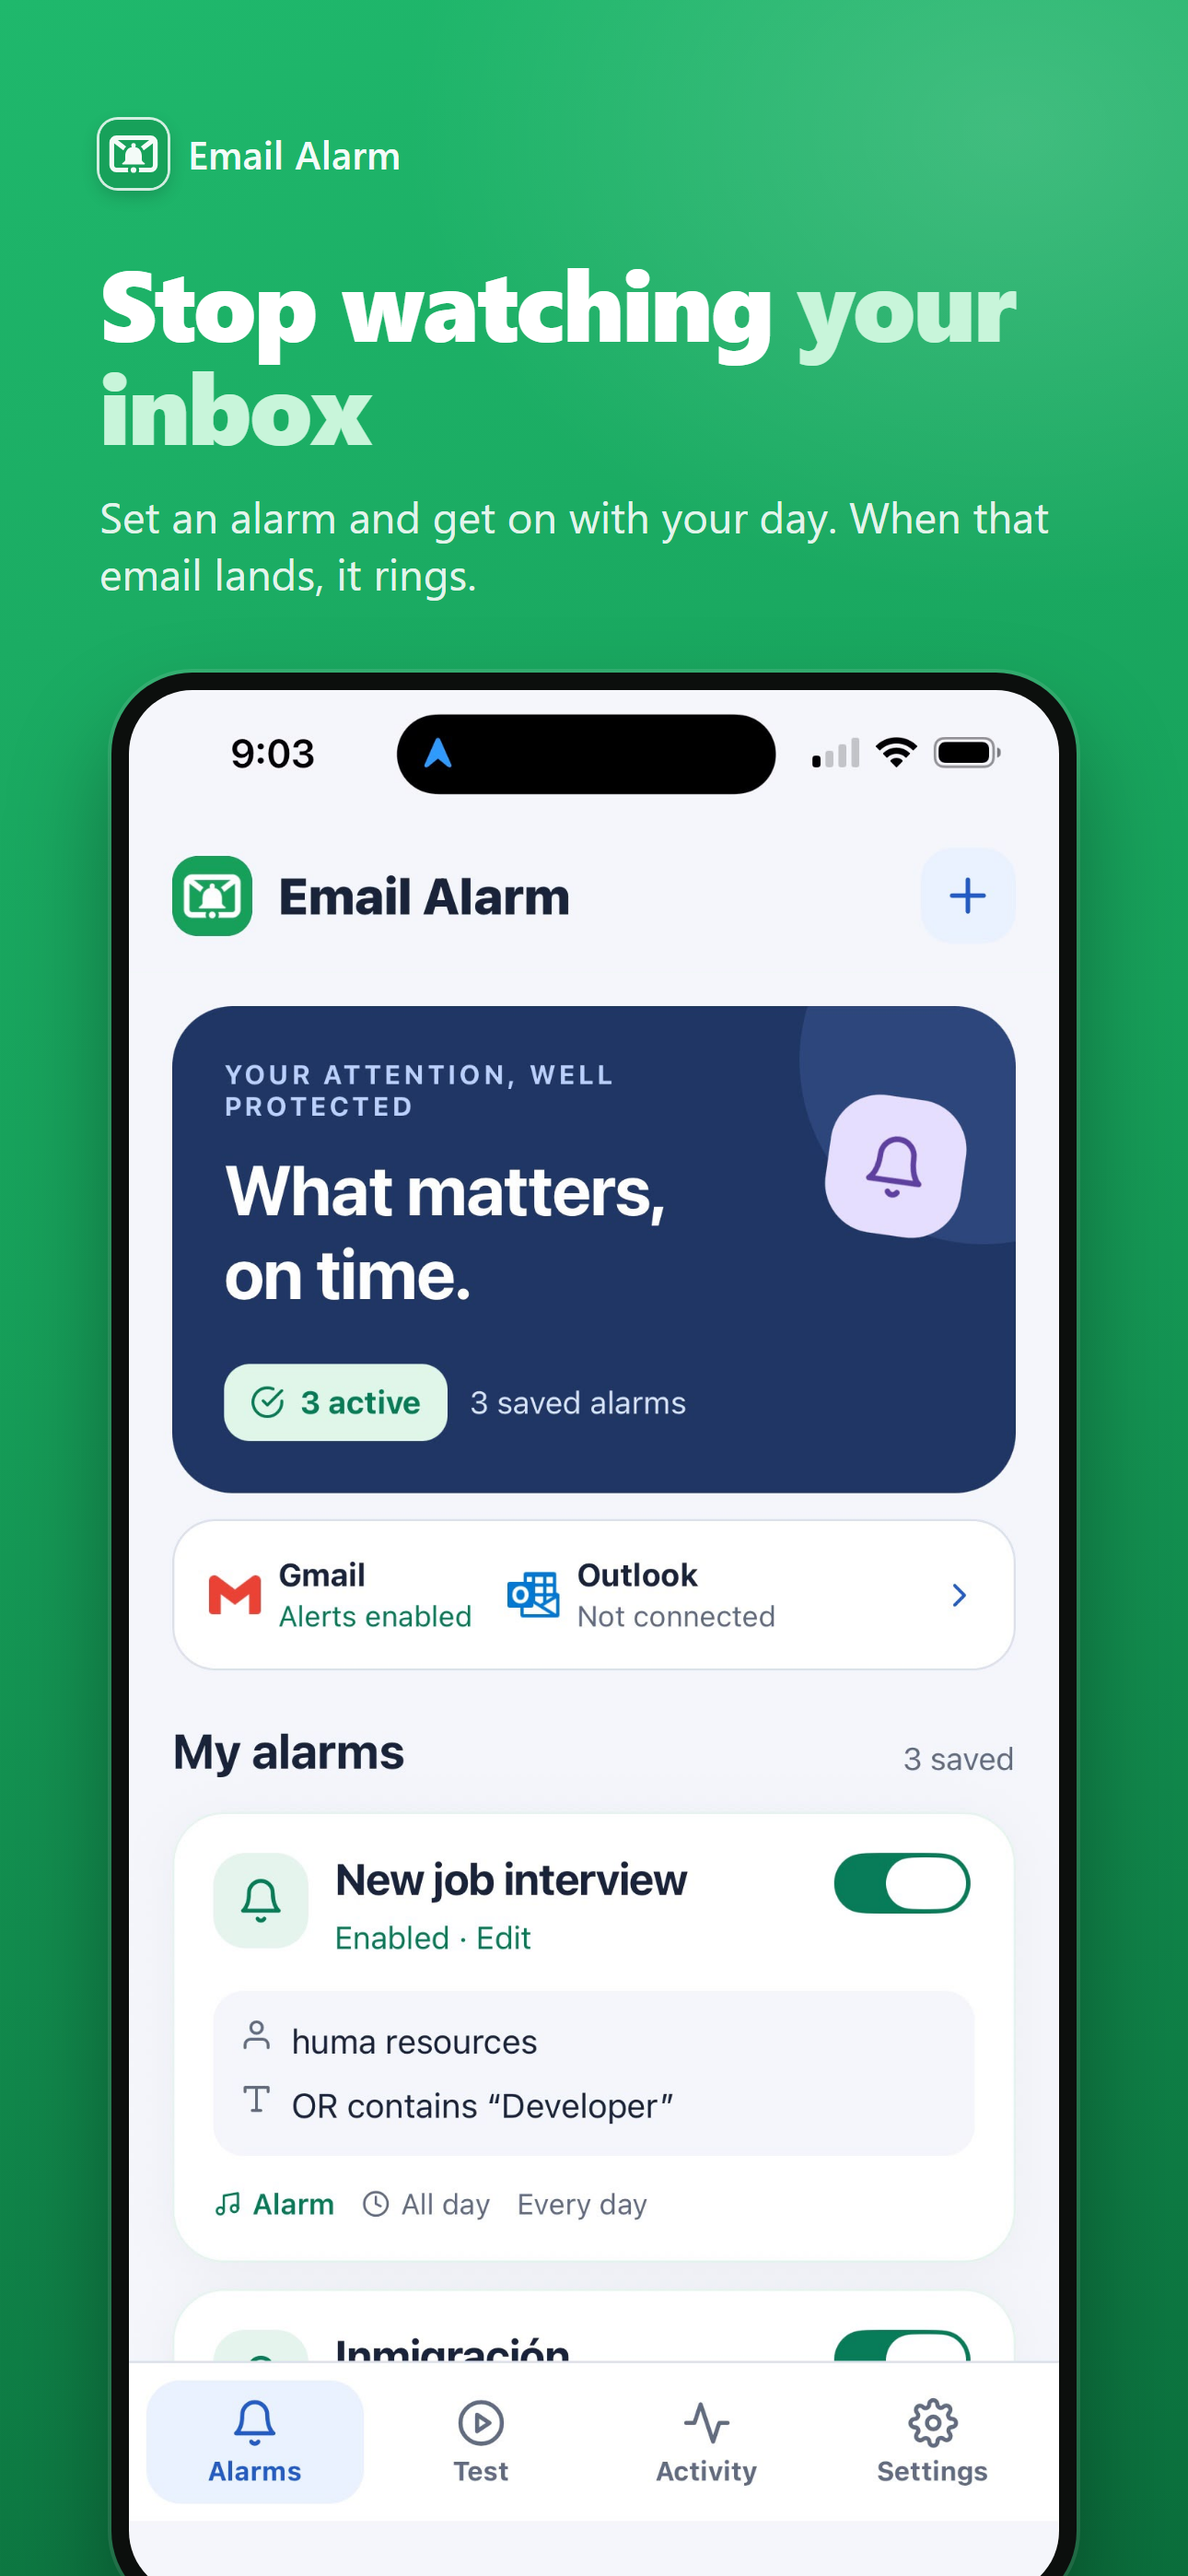
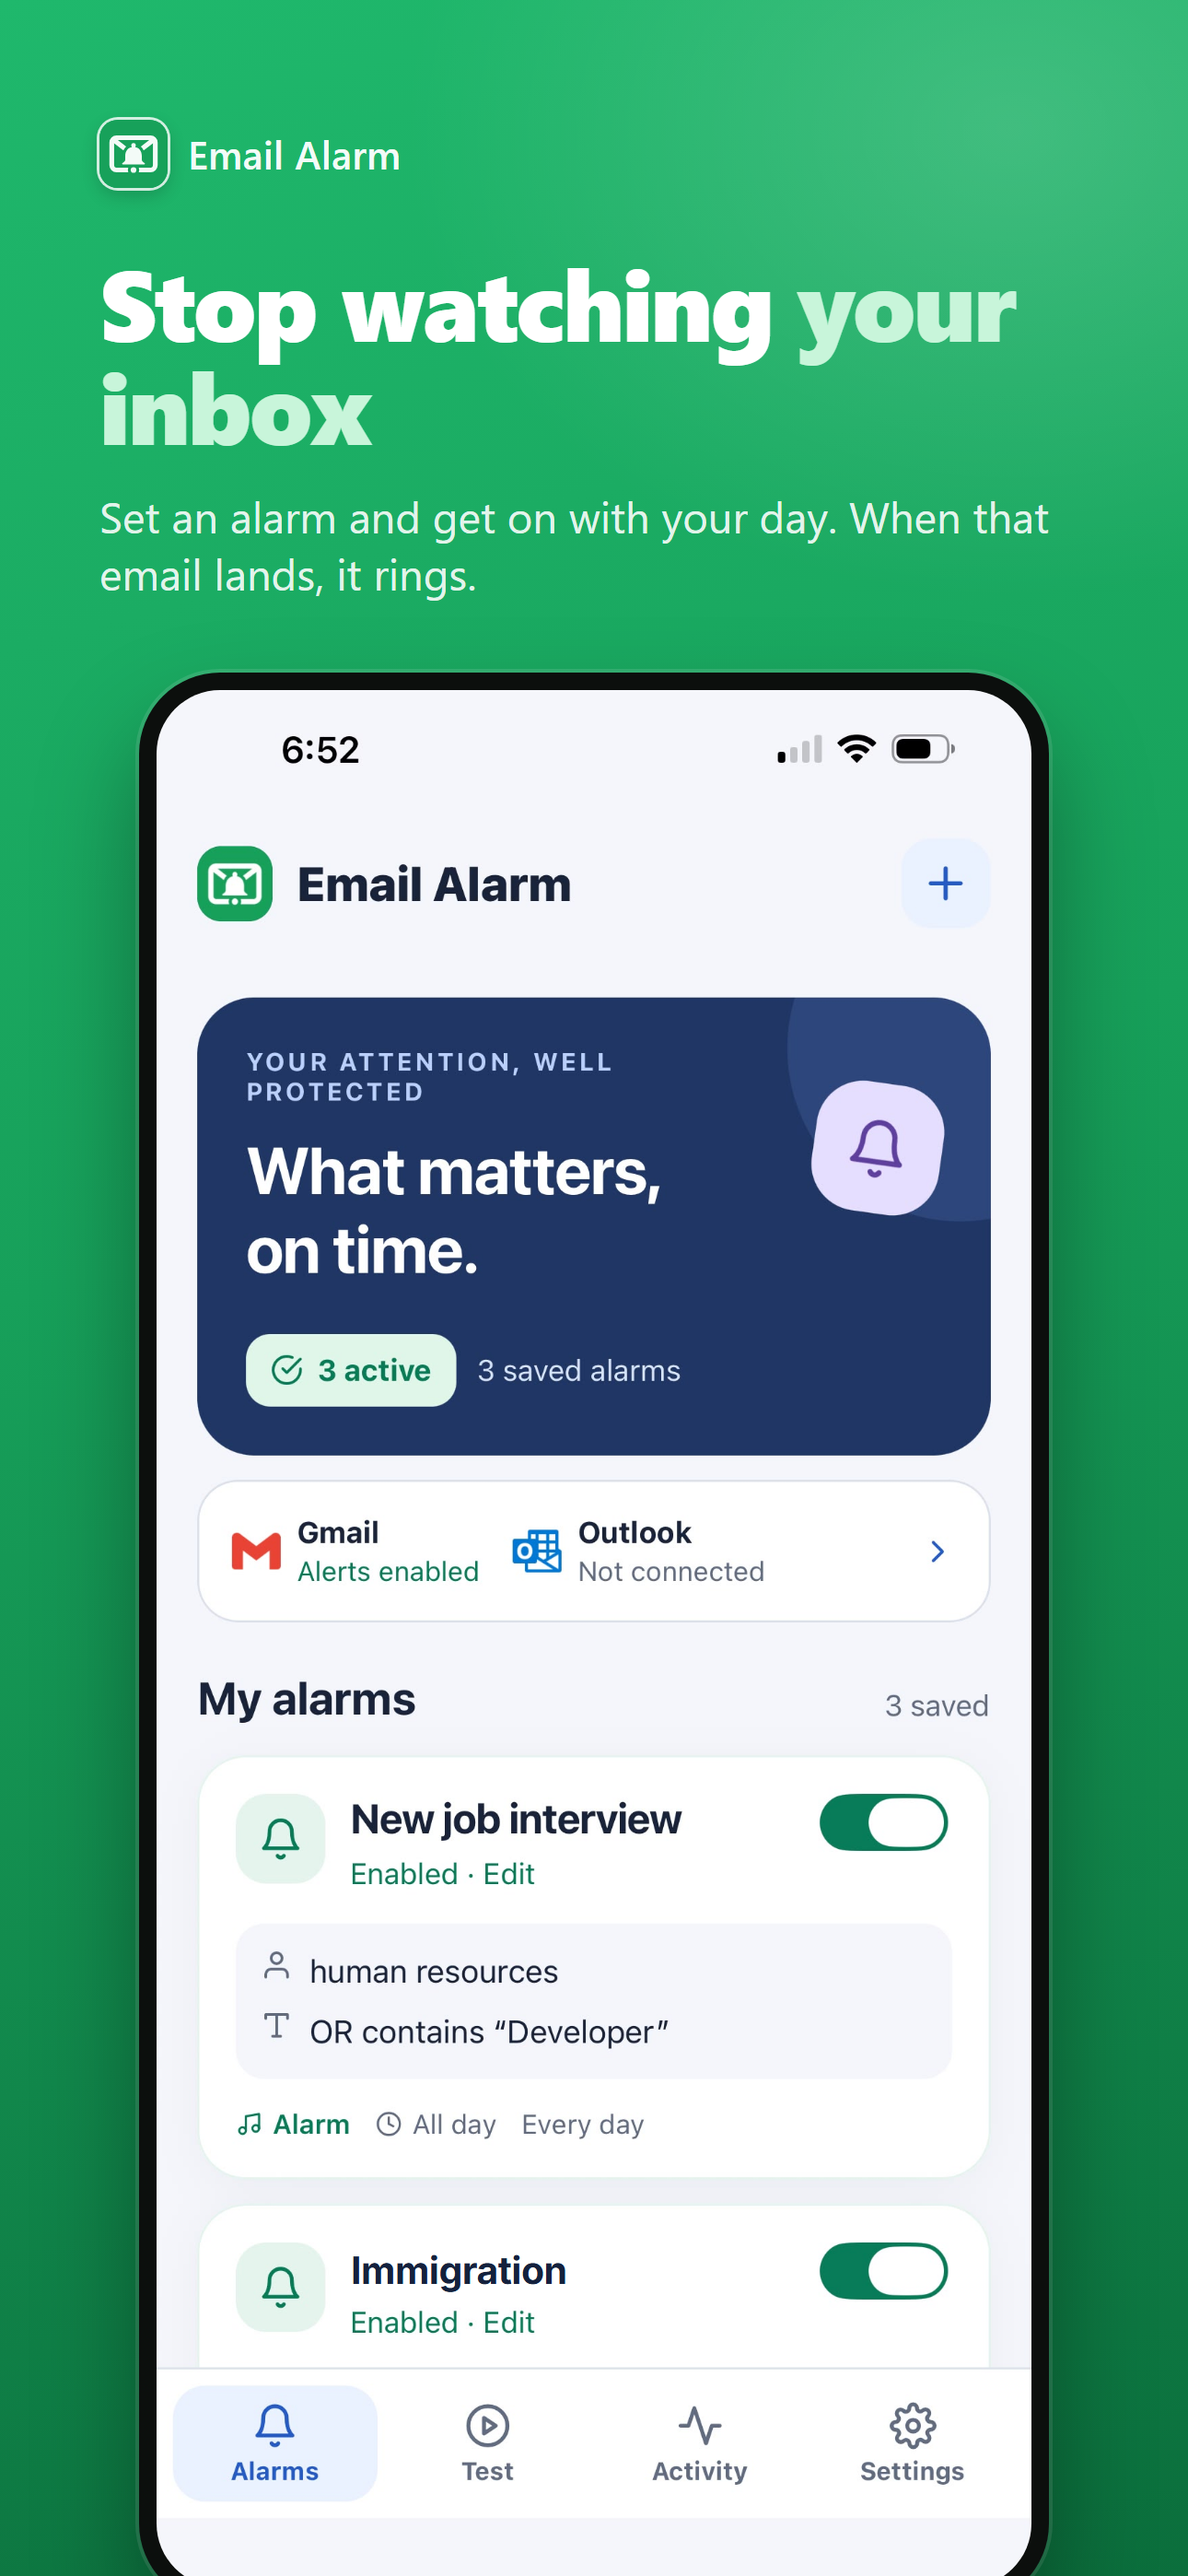
Apple: capturas con la lista corregida y datos de prueba neutros
La captura de la lista pasa a la que ya tiene "human resources" bien escrito y
no trae el aviso pasajero. Sobre las otras, un mecanismo de parches: tapa un
rectangulo con el color tomado de la propia captura y reescribe el texto, solo
para los datos de prueba. El remitente deja de ser la empresa de Luciano y pasa
a un ejemplo neutro, y la alarma "Inmigracion" se lee en ingles en la ficha en
ingles. La interfaz de la app no se toca.

El telefono baja a 950 px de ancho para que la barra de pestanas entre entera.

diff --git a/apple/marketing_ios.py b/apple/marketing_ios.py
@@ -8,11 +8,18 @@ apple/capturas-app-store/, 1290x2796 (el tamano de 6.9" que pide Apple y el
 mismo que traen las capturas originales). Renderiza con Edge headless,
 igual que play/marketing.py.
 
-Cada pieza puede saltear franjas de la captura original ("saltos"): filas en
-pixeles del JPG que no se muestran. Sirve para sacar los avisos pasajeros
-("Alarm saved on your iPhone") o un elemento cortado arriba de todo; el corte
-cae siempre sobre el fondo liso, asi que no se nota.
+Dos retoques sobre la captura original, los dos en pixeles del JPG:
+
+- "saltos": franjas de filas que no se muestran. Sirve para sacar un aviso
+  pasajero ("Alarm saved on your iPhone") o un elemento cortado arriba de todo;
+  el corte cae sobre el fondo liso, asi que no se nota.
+- "parches": tapan un rectangulo con el color del fondo (se toma de un pixel de
+  la misma captura, asi no hay que adivinarlo) y escriben otro texto encima.
+  Solo para los datos de prueba: el remitente del email que uso Luciano para
+  probar es su propia empresa, y en la ficha queda mejor un ejemplo neutro.
+  La interfaz de la app no se toca.
 """
+import json
 import pathlib
 import subprocess
 import tempfile
@@ -25,31 +32,62 @@ EDGE = r"C:\Program Files (x86)\Microsoft\Edge\Application\msedge.exe"
 ANCHO, ALTO = 1290, 2796
 ANCHO_ORIGEN = 1290  # ancho de las capturas del iPhone
 
-# (captura, titular con <em> en lo que se destaca, bajada, telefono completo?, saltos)
+REMITENTE = "Acme Restaurant"
+CORREO = "shifts@acmerestaurant.com"
+# La alarma se llama "Inmigracion" en el telefono de prueba; en la ficha en
+# ingles conviene que se lea en ingles.
+INMIGRACION = "Immigration"
+
 # El telefono completo se usa cuando lo importante esta abajo (el boton Stop alarm);
 # si no, el telefono sale mas grande y cortado por el borde inferior.
 TEXTOS = {
     "en": [
-        ("lista", "Stop watching <em>your inbox</em>",
-         "Set an alarm and get on with your day. When that email lands, it rings.",
-         False, [(392, 548)]),
-        ("alarma", "Rings like a <em>real alarm</em>",
-         "Full screen, with the sender and the subject, until you stop it.",
-         True, []),
-        ("editar", "You choose <em>what matters</em>",
-         "A sender, a keyword, or both. Type “uscis” and it also rings for “USCIS Online Account”.",
-         False, []),
-        ("horario", "Only when it <em>should</em> ring",
-         "Pick the days and the hours of each alarm. Outside them, it stays quiet.",
-         False, [(157, 414)]),
-        ("actividad", "Know <em>why</em> it rang",
-         "Every alert, with its sender and subject, saved on your iPhone.",
-         False, []),
+        dict(captura="lista",
+             titulo="Stop watching <em>your inbox</em>",
+             bajada="Set an alarm and get on with your day. When that email lands, it rings.",
+             parches=[
+                 dict(rect=(286, 2285, 420, 90), muestra=(838, 2320),
+                      texto=INMIGRACION, fuente=56, color="#14213d", alinear="left"),
+             ]),
+        dict(captura="alarma",
+             titulo="Rings like a <em>real alarm</em>",
+             bajada="Full screen, with the sender and the subject, until you stop it.",
+             completo=True,
+             parches=[
+                 # Las cuatro lineas del remitente pasan a una sola, centrada.
+                 dict(rect=(40, 880, 1210, 610), muestra=(30, 1200), subir=170,
+                      texto=REMITENTE, fuente=88, color="#ffffff", alinear="center"),
+                 # La direccion, debajo del asunto.
+                 dict(rect=(40, 1620, 1210, 90), muestra=(30, 1660),
+                      texto=CORREO, fuente=44, peso=400,
+                      color="#dfe6f2", alinear="center"),
+             ]),
+        dict(captura="editar",
+             titulo="You choose <em>what matters</em>",
+             bajada="A sender, a keyword, or both. Type “uscis” and it also rings for “USCIS Online Account”.",
+             parches=[
+                 dict(rect=(109, 700, 560, 120), muestra=(978, 762),
+                      texto=INMIGRACION, fuente=58, peso=400,
+                      color="#101828", alinear="left"),
+             ]),
+        dict(captura="horario",
+             titulo="Only when it <em>should</em> ring",
+             bajada="Pick the days and the hours of each alarm. Outside them, it stays quiet.",
+             saltos=[(157, 414)]),
+        dict(captura="actividad",
+             titulo="Know <em>why</em> it rang",
+             bajada="Every alert, with its sender and subject, saved on your iPhone.",
+             parches=[
+                 dict(rect=(250, 1500, 700, 80), muestra=(838, 1747),
+                      texto=REMITENTE, fuente=50, color="#14213d", alinear="left"),
+             ]),
     ],
 }
 
 PLANTILLA = """<!DOCTYPE html>
-<html><head><meta charset="utf-8"><style>
+<html><head><meta charset="utf-8">
+<link rel="stylesheet" href="https://fonts.googleapis.com/css2?family=Inter:wght@400;600;700&display=swap">
+<style>
   * {{ margin: 0; box-sizing: border-box; }}
   html, body {{ width: {ancho}px; height: {alto}px; overflow: hidden; }}
   body {{
@@ -71,8 +109,12 @@ PLANTILLA = """<!DOCTYPE html>
   .telefono {{ position: absolute; left: 50%; transform: translateX(-50%);
                background: #0C0F0D; padding: 19px; border-radius: 88px;
                box-shadow: 0 60px 108px rgba(0,0,0,.35), 0 0 0 4px rgba(255,255,255,.12); }}
-  .pantalla {{ overflow: hidden; border-radius: 69px; font-size: 0; }}
+  .pantalla {{ overflow: hidden; border-radius: 69px; font-size: 0; position: relative; }}
   .franja {{ background-image: url("{captura}"); background-repeat: no-repeat; }}
+  /* Inter es lo mas parecido a la tipografia del sistema del iPhone que hay aca. */
+  .parche {{ position: absolute; display: flex; align-items: center;
+             font-family: Inter, "Segoe UI", Arial, sans-serif; font-weight: 700;
+             letter-spacing: -.5px; line-height: 1.1; }}
 </style></head>
 <body>
   <div class="marca"><img src="{icono}">Email Alarm</div>
@@ -80,8 +122,6 @@ PLANTILLA = """<!DOCTYPE html>
   <p id="bajada">{bajada}</p>
   <div class="telefono" id="tel"><div class="pantalla" id="pan"></div></div>
 <script>
-  // La bajada va debajo del titular, y el telefono debajo de la bajada,
-  // midiendo lo que ocupa cada texto (una o dos lineas).
   const t = document.getElementById('titulo'), b = document.getElementById('bajada'),
         tel = document.getElementById('tel'), pan = document.getElementById('pan');
   b.style.top = (t.offsetTop + t.offsetHeight + 34) + 'px';
@@ -91,13 +131,23 @@ PLANTILLA = """<!DOCTYPE html>
     const alto = {alto} - arriba - 80;          // entra entero, con margen abajo
     anchoPantalla = Math.round((alto - 38) * {ancho_origen} / {alto_origen});
   }} else {{
-    anchoPantalla = 1010;                       // grande, cortado por el borde
+    anchoPantalla = 950;                        // entra casi entera, hasta el borde de abajo
   }}
   tel.style.top = arriba + 'px';
   pan.style.width = anchoPantalla + 'px';
-  // Cada franja muestra un tramo de filas de la captura; lo salteado no se dibuja.
   const k = anchoPantalla / {ancho_origen};
-  for (const [a, z] of {tramos}) {{
+  const visibles = {tramos};
+  // De una fila de la captura a su posicion en pantalla, descontando lo salteado.
+  function enPantalla(fila) {{
+    let alto = 0;
+    for (const [a, z] of visibles) {{
+      if (fila < z) return (alto + Math.max(0, fila - a)) * k;
+      alto += z - a;
+    }}
+    return alto * k;
+  }}
+  // Cada franja muestra un tramo de filas de la captura; lo salteado no se dibuja.
+  for (const [a, z] of visibles) {{
     const d = document.createElement('div');
     d.className = 'franja';
     d.style.width = anchoPantalla + 'px';
@@ -106,12 +156,45 @@ PLANTILLA = """<!DOCTYPE html>
     d.style.backgroundPosition = '0 ' + (-Math.round(a * k)) + 'px';
     pan.appendChild(d);
   }}
+
+  // Los parches van al final: tapan con el color real de la captura y reescriben.
+  const parches = {parches};
+  if (parches.length) {{
+    const img = new Image();
+    img.onload = () => {{
+      const c = document.createElement('canvas');
+      c.width = img.naturalWidth; c.height = img.naturalHeight;
+      c.getContext('2d').drawImage(img, 0, 0);
+      const ctx = c.getContext('2d');
+      for (const p of parches) {{
+        const [mx, my] = p.muestra;
+        const [r, g, bl] = ctx.getImageData(mx, my, 1, 1).data;
+        const [x, y, w, h] = p.rect;
+        const d = document.createElement('div');
+        d.className = 'parche';
+        d.style.background = `rgb(${{r}},${{g}},${{bl}})`;
+        d.style.left = Math.round(x * k) + 'px';
+        d.style.top = Math.round(enPantalla(y)) + 'px';
+        d.style.width = Math.round(w * k) + 'px';
+        d.style.height = Math.round(enPantalla(y + h) - enPantalla(y)) + 'px';
+        d.style.fontSize = Math.round(p.fuente * k) + 'px';
+        d.style.fontWeight = p.peso || 700;
+        d.style.color = p.color;
+        d.style.justifyContent = p.alinear === 'left' ? 'flex-start' : 'center';
+        if (p.subir) d.style.paddingBottom = Math.round(p.subir * k) + 'px';
+        d.textContent = p.texto;
+        pan.appendChild(d);
+      }}
+      document.title = 'listo';
+    }};
+    img.src = "{captura}";
+  }}
 </script>
 </body></html>
 """
 
 
-def tramos(saltos: list[tuple[int, int]], alto_origen: int) -> list[tuple[int, int]]:
+def tramos(saltos, alto_origen):
     """Las filas que si se muestran, a partir de las franjas que se saltean."""
     visibles, desde = [], 0
     for a, z in sorted(saltos):
@@ -128,7 +211,7 @@ def renderizar(html: pathlib.Path, png: pathlib.Path, perfil: str) -> None:
     subprocess.run(
         [EDGE, "--headless=new", "--disable-gpu", "--hide-scrollbars",
          f"--user-data-dir={perfil}", f"--window-size={ANCHO},{ALTO}",
-         "--allow-file-access-from-files", "--virtual-time-budget=3000",
+         "--allow-file-access-from-files", "--virtual-time-budget=6000",
          f"--screenshot={png}", html.as_uri()],
         stdout=subprocess.DEVNULL, stderr=subprocess.DEVNULL, check=False,
     )
@@ -144,19 +227,22 @@ def main() -> None:
     perfil = str(pathlib.Path(tempfile.gettempdir()) / "edge-marketing-ios-perfil")
     with tempfile.TemporaryDirectory() as tmp:
         for idioma, piezas in TEXTOS.items():
-            for n, (captura, titulo, bajada, completo, saltos) in enumerate(piezas, 1):
-                jpg = CAPTURAS / f"{captura}-{idioma}.jpg"
-                alto_origen = ALTO  # las capturas vienen a 1290x2796
+            for n, pieza in enumerate(piezas, 1):
+                nombre = pieza["captura"]
+                jpg = CAPTURAS / f"{nombre}-{idioma}.jpg"
+                visibles = tramos(pieza.get("saltos", []), ALTO)
                 html = pathlib.Path(tmp) / f"{n}-{idioma}.html"
                 html.write_text(PLANTILLA.format(
-                    ancho=ANCHO, alto=ALTO, titulo=titulo, bajada=bajada,
-                    completo="true" if completo else "false",
-                    ancho_origen=ANCHO_ORIGEN, alto_origen=alto_origen,
-                    tramos=repr(tramos(saltos, alto_origen)).replace("(", "[").replace(")", "]"),
+                    ancho=ANCHO, alto=ALTO,
+                    titulo=pieza["titulo"], bajada=pieza["bajada"],
+                    completo="true" if pieza.get("completo") else "false",
+                    ancho_origen=ANCHO_ORIGEN, alto_origen=ALTO,
+                    tramos=json.dumps([list(t) for t in visibles]),
+                    parches=json.dumps(pieza.get("parches", [])),
                     icono=(RAIZ / "web" / "icon.svg").as_uri(),
                     captura=jpg.as_uri(),
                 ), encoding="utf-8")
-                png = SALIDA / f"{n}-{captura}-{idioma}.png"
+                png = SALIDA / f"{n}-{nombre}-{idioma}.png"
                 renderizar(html, png, perfil)
                 print(f"ok  apple/capturas-app-store/{png.name}")
 
